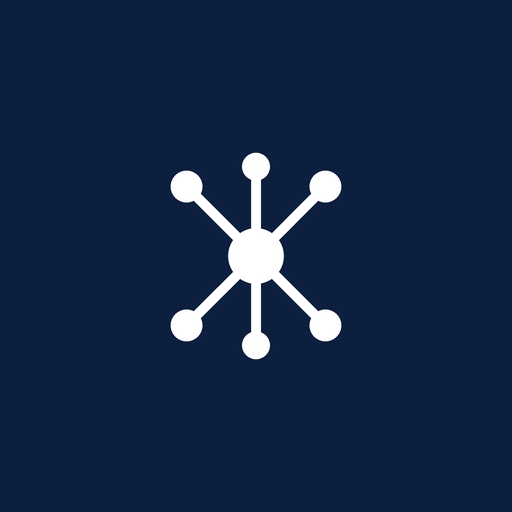
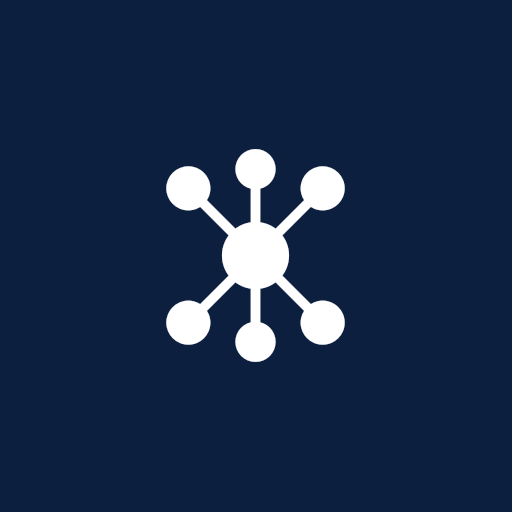
feat(pwa): app profissional instalavel (icones CORTEX, service worker, registro)

diff --git a/frontend/pwa-sw.js b/frontend/pwa-sw.js
@@ -1,0 +1,58 @@
+// CORTEX (frontend profissional) — Service Worker PWA
+// Objetivo: permitir instalação na tela inicial e um app-shell básico.
+// NUNCA cacheia dados do Supabase nem respostas de API — só assets estáticos.
+const CACHE = 'cortex-app-v1';
+const CORE = [
+  './index.html',
+  './dashboard.html',
+  './favicon.svg',
+  './icon-192.png',
+  './icon-512.png',
+  './apple-touch-icon.png',
+  './site.webmanifest'
+];
+
+self.addEventListener('install', (e) => {
+  e.waitUntil(caches.open(CACHE).then(c => c.addAll(CORE).catch(()=>{})));
+  self.skipWaiting();
+});
+
+self.addEventListener('activate', (e) => {
+  e.waitUntil(
+    caches.keys().then(keys => Promise.all(keys.filter(k => k !== CACHE).map(k => caches.delete(k))))
+  );
+  self.clients.claim();
+});
+
+self.addEventListener('fetch', (e) => {
+  const req = e.request;
+  const url = new URL(req.url);
+
+  // Só GET e mesma origem entram em jogo; nunca Supabase/APIs externas.
+  if (req.method !== 'GET') return;
+  if (url.origin !== self.location.origin) return;
+  if (/supabase\.co|\/rest\/|\/auth\/|\/functions\//.test(url.href)) return;
+
+  // HTML: network-first (sempre pega versão nova; cai no cache offline).
+  if (req.mode === 'navigate' || (req.headers.get('accept')||'').includes('text/html')) {
+    e.respondWith(
+      fetch(req).then(res => {
+        const copy = res.clone();
+        caches.open(CACHE).then(c => c.put(req, copy)).catch(()=>{});
+        return res;
+      }).catch(() => caches.match(req).then(r => r || caches.match('./dashboard.html')))
+    );
+    return;
+  }
+
+  // Assets estáticos: cache-first.
+  if (/\.(css|js|png|jpg|jpeg|svg|woff2?|ico|webmanifest)$/.test(url.pathname)) {
+    e.respondWith(
+      caches.match(req).then(hit => hit || fetch(req).then(res => {
+        const copy = res.clone();
+        caches.open(CACHE).then(c => c.put(req, copy)).catch(()=>{});
+        return res;
+      }).catch(()=>hit))
+    );
+  }
+});

diff --git a/frontend/pwa-register.js b/frontend/pwa-register.js
@@ -1,0 +1,10 @@
+// Registra o service worker do PWA do CORTEX (profissional).
+if ('serviceWorker' in navigator) {
+  window.addEventListener('load', () => {
+    // caminho relativo ao /frontend/
+    const base = location.pathname.includes('/frontend/')
+      ? location.pathname.slice(0, location.pathname.indexOf('/frontend/') + '/frontend/'.length)
+      : './';
+    navigator.serviceWorker.register(base + 'pwa-sw.js', { scope: base }).catch(()=>{});
+  });
+}

diff --git a/frontend/dashboard.html b/frontend/dashboard.html
@@ -57,5 +57,6 @@
     <script src="shared/avatar.js"></script>
     <script src="shared/confirm_modal.js"></script>
     <script src="dashboard.js"></script>
+    <script src="pwa-register.js"></script>
 </body>
 </html>

diff --git a/frontend/index.html b/frontend/index.html
@@ -258,5 +258,6 @@
     <script src="session_cleanup.js"></script>
     <script src="config.js"></script>
     <script src="auth.js"></script>
+    <script src="pwa-register.js"></script>
 </body>
 </html>
